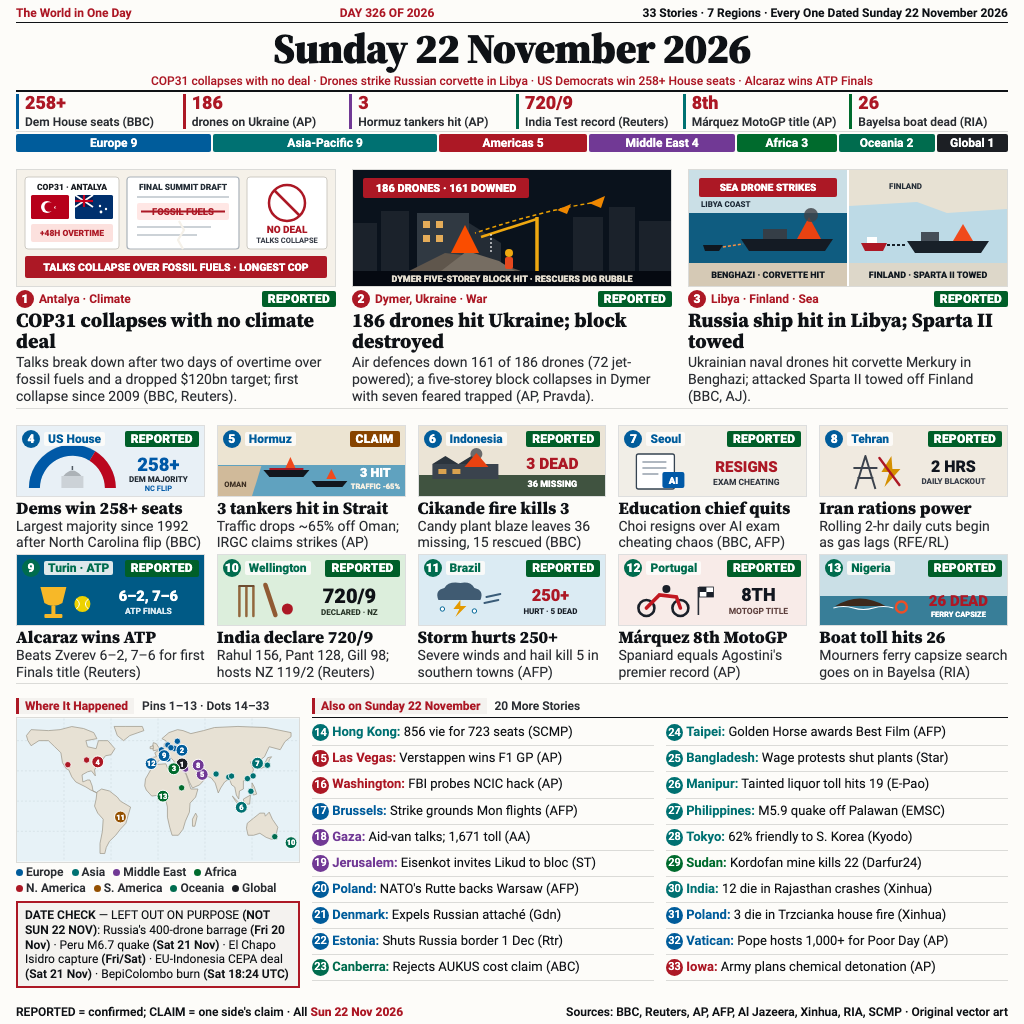
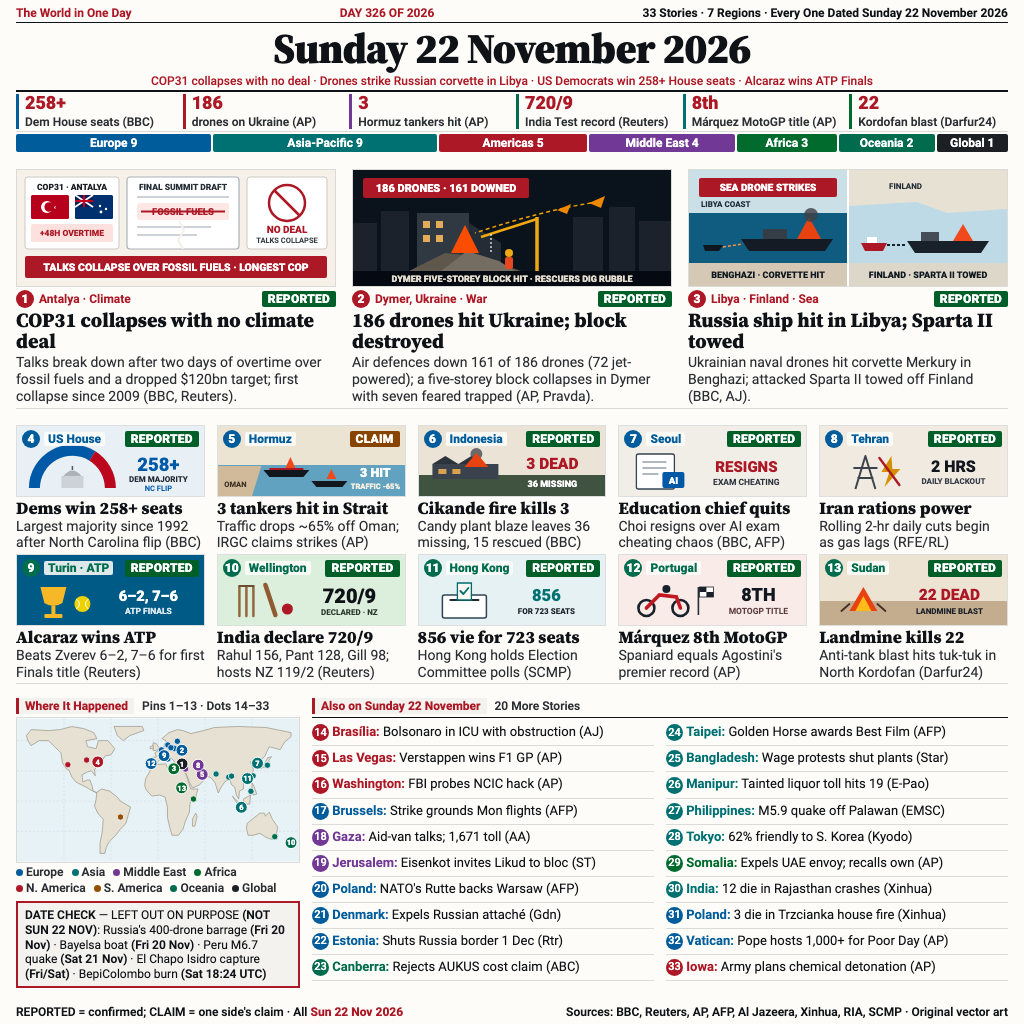
Round 10: SIFT fact-check audit (HK polls, Sudan landmine, Bolsonaro ICU, Somalia-UAE)

diff --git a/index.html b/index.html
@@ -370,7 +370,7 @@
       </div>
       <h1 class="masthead">Sunday 22 November 2026</h1>
       <div class="deck">COP31 collapses with no deal · Drones strike Russian corvette in Libya · US Democrats win 258+ House seats · Alcaraz wins ATP Finals</div>
-      <div class="kpi-strip"><div class="kpi-item" style="border-left:3px solid oklch(0.46 0.13 245)"><div class="kpi-num">258+</div><div class="kpi-lbl">Dem House seats (BBC)</div></div><div class="kpi-item" style="border-left:3px solid oklch(0.48 0.18 24)"><div class="kpi-num">186</div><div class="kpi-lbl">drones on Ukraine (AP)</div></div><div class="kpi-item" style="border-left:3px solid oklch(0.46 0.15 310)"><div class="kpi-num">3</div><div class="kpi-lbl">Hormuz tankers hit (AP)</div></div><div class="kpi-item" style="border-left:3px solid oklch(0.46 0.12 170)"><div class="kpi-num">720/9</div><div class="kpi-lbl">India Test record (Reuters)</div></div><div class="kpi-item" style="border-left:3px solid oklch(0.48 0.12 195)"><div class="kpi-num">8th</div><div class="kpi-lbl">Márquez MotoGP title (AP)</div></div><div class="kpi-item" style="border-left:3px solid oklch(0.46 0.13 150)"><div class="kpi-num">26</div><div class="kpi-lbl">Bayelsa boat dead (RIA)</div></div></div>
+      <div class="kpi-strip"><div class="kpi-item" style="border-left:3px solid oklch(0.46 0.13 245)"><div class="kpi-num">258+</div><div class="kpi-lbl">Dem House seats (BBC)</div></div><div class="kpi-item" style="border-left:3px solid oklch(0.48 0.18 24)"><div class="kpi-num">186</div><div class="kpi-lbl">drones on Ukraine (AP)</div></div><div class="kpi-item" style="border-left:3px solid oklch(0.46 0.15 310)"><div class="kpi-num">3</div><div class="kpi-lbl">Hormuz tankers hit (AP)</div></div><div class="kpi-item" style="border-left:3px solid oklch(0.46 0.12 170)"><div class="kpi-num">720/9</div><div class="kpi-lbl">India Test record (Reuters)</div></div><div class="kpi-item" style="border-left:3px solid oklch(0.48 0.12 195)"><div class="kpi-num">8th</div><div class="kpi-lbl">Márquez MotoGP title (AP)</div></div><div class="kpi-item" style="border-left:3px solid oklch(0.46 0.13 150)"><div class="kpi-num">22</div><div class="kpi-lbl">Kordofan blast (Darfur24)</div></div></div>
       <div class="reg-bar"><div class="reg-seg" style="flex:9 0 auto;background:oklch(0.46 0.13 245)">Europe 9</div><div class="reg-seg" style="flex:9 0 auto;background:oklch(0.48 0.12 195)">Asia-Pacific 9</div><div class="reg-seg" style="flex:5 0 auto;background:oklch(0.48 0.18 24)">Americas 5</div><div class="reg-seg" style="flex:4 0 auto;background:oklch(0.46 0.15 310)">Middle East 4</div><div class="reg-seg" style="flex:3 0 auto;background:oklch(0.46 0.13 150)">Africa 3</div><div class="reg-seg" style="flex:2 0 auto;background:oklch(0.46 0.12 170)">Oceania 2</div><div class="reg-seg" style="flex:1 0 auto;background:oklch(0.24 0.01 260)">Global 1</div></div>
     </div>
 
@@ -692,25 +692,23 @@
             <div class="mini-top">
               <span class="mini-top-left">
                 <span class="num-circle-sm" style="background:oklch(0.46 0.12 170)">11</span>
-                <span class="mini-loc" style="color:oklch(0.46 0.12 170)">Brazil</span>
+                <span class="mini-loc" style="color:oklch(0.46 0.12 170)">Hong Kong</span>
               </span>
               <span class="badge badge-confirmed">REPORTED</span>
             </div>
             <div class="mini-svg-wrap">
     <svg viewBox="0 0 188 72" preserveAspectRatio="xMidYMid slice" width="100%" height="100%" xmlns="http://www.w3.org/2000/svg">
-      <rect width="188" height="72" fill="oklch(0.93 0.02 230)"/>
-      <path d="M20,45 Q16,35 26,33 Q30,26 42,28 Q52,26 56,33 Q66,35 62,45 Z" fill="oklch(0.46 0.05 245)"/>
-      <polygon points="42,45 35,54 41,54 37,62 48,51 42,51" fill="oklch(0.74 0.17 78)"/>
-      <circle cx="24" cy="54" r="2.2" fill="white" stroke="oklch(0.48 0.12 235)" stroke-width="1"/>
-      <circle cx="56" cy="56" r="2.2" fill="white" stroke="oklch(0.48 0.12 235)" stroke-width="1"/>
-      <line x1="68" y1="42" x2="82" y2="39" stroke="oklch(0.46 0.06 245)" stroke-width="1.8" stroke-linecap="round"/>
-      <line x1="66" y1="48" x2="80" y2="45" stroke="oklch(0.46 0.06 245)" stroke-width="1.8" stroke-linecap="round"/>
-      <text x="132" y="46" text-anchor="middle" font-family="Roboto, sans-serif" font-weight="900" font-size="16.5" fill="oklch(0.48 0.18 24)">250+</text>
-      <text x="132" y="59" text-anchor="middle" font-family="Roboto, sans-serif" font-weight="800" font-size="8" fill="oklch(0.24 0.02 260)">HURT · 5 DEAD</text>
+      <rect width="188" height="72" fill="oklch(0.95 0.012 210)"/>
+      <rect x="24" y="40" width="44" height="23" rx="2" fill="white" stroke="oklch(0.38 0.04 240)" stroke-width="1.5"/>
+      <line x1="32" y1="45" x2="60" y2="45" stroke="oklch(0.28 0.02 250)" stroke-width="2.2" stroke-linecap="round"/>
+      <polygon points="39,28 53,28 53,45 39,45" fill="oklch(0.98 0.005 90)" stroke="oklch(0.46 0.12 195)" stroke-width="1.3"/>
+      <path d="M42,36 L45,39 L50,33" fill="none" stroke="oklch(0.46 0.12 195)" stroke-width="1.8" stroke-linecap="round" stroke-linejoin="round"/>
+      <text x="128" y="46" text-anchor="middle" font-family="Roboto, sans-serif" font-weight="900" font-size="16.5" fill="oklch(0.48 0.12 195)">856</text>
+      <text x="128" y="59" text-anchor="middle" font-family="Roboto, sans-serif" font-weight="800" font-size="8" fill="oklch(0.24 0.02 260)">FOR 723 SEATS</text>
     </svg></div>
           </div>
-          <h3>Storm hurts 250+</h3>
-          <p>Severe winds and hail kill 5 in southern towns (AFP)</p>
+          <h3>856 vie for 723 seats</h3>
+          <p>Hong Kong holds Election Committee polls (SCMP)</p>
         </article><article class="mini-card">
           <div class="mini-art">
             <div class="mini-top">
@@ -742,23 +740,23 @@
             <div class="mini-top">
               <span class="mini-top-left">
                 <span class="num-circle-sm" style="background:oklch(0.46 0.12 170)">13</span>
-                <span class="mini-loc" style="color:oklch(0.46 0.12 170)">Nigeria</span>
+                <span class="mini-loc" style="color:oklch(0.46 0.12 170)">Sudan</span>
               </span>
               <span class="badge badge-confirmed">REPORTED</span>
             </div>
             <div class="mini-svg-wrap">
     <svg viewBox="0 0 188 72" preserveAspectRatio="xMidYMid slice" width="100%" height="100%" xmlns="http://www.w3.org/2000/svg">
-      <rect width="188" height="41" fill="oklch(0.89 0.025 220)"/>
-      <rect y="41" width="188" height="31" fill="oklch(0.56 0.08 225)"/>
-      <path d="M16,51 Q40,36 66,51 Z" fill="oklch(0.30 0.04 55)"/>
-      <path d="M14,53 Q24,50 34,53 Q44,56 54,53 Q64,50 74,53" fill="none" stroke="white" stroke-width="1.2"/>
-      <circle cx="82" cy="52" r="5.5" fill="none" stroke="oklch(0.64 0.20 35)" stroke-width="2.4"/>
-      <text x="139" y="51" text-anchor="middle" font-family="Roboto, sans-serif" font-weight="900" font-size="15" fill="oklch(0.48 0.18 24)">26 DEAD</text>
-      <text x="139" y="62" text-anchor="middle" font-family="Roboto, sans-serif" font-weight="800" font-size="7.5" fill="white">FERRY CAPSIZE</text>
+      <rect width="188" height="46" fill="oklch(0.92 0.025 82)"/>
+      <rect y="46" width="188" height="26" fill="oklch(0.76 0.05 75)"/>
+      <polygon points="30,56 44,32 58,56" fill="oklch(0.62 0.21 35)"/>
+      <polygon points="36,56 44,41 52,56" fill="oklch(0.84 0.17 80)"/>
+      <path d="M22,56 L30,49 M66,56 L58,49" stroke="oklch(0.32 0.03 55)" stroke-width="1.8" stroke-linecap="round"/>
+      <text x="130" y="45" text-anchor="middle" font-family="Roboto, sans-serif" font-weight="900" font-size="15.5" fill="oklch(0.48 0.18 24)">22 DEAD</text>
+      <text x="130" y="59" text-anchor="middle" font-family="Roboto, sans-serif" font-weight="800" font-size="8" fill="oklch(0.24 0.02 260)">LANDMINE BLAST</text>
     </svg></div>
           </div>
-          <h3>Boat toll hits 26</h3>
-          <p>Mourners ferry capsize search goes on in Bayelsa (RIA)</p>
+          <h3>Landmine kills 22</h3>
+          <p>Anti-tank blast hits tuk-tuk in North Kordofan (Darfur24)</p>
         </article></div>
 
     <div class="bottom">
@@ -767,9 +765,9 @@
           <span class="sec-title">Where It Happened</span>
           <span class="sec-sub">Pins 1–13 · Dots 14–33</span>
         </div>
-        <div class="map-box"><svg viewBox="0 0 284 144" width="100%" height="144" xmlns="http://www.w3.org/2000/svg"><rect width="284" height="144" fill="oklch(0.955 0.014 225)"/><line x1="0" y1="113.6" x2="284" y2="113.6" stroke="oklch(0.88 0.015 225)" stroke-width="0.6" stroke-dasharray="2 2"/><line x1="0" y1="83.2" x2="284" y2="83.2" stroke="oklch(0.88 0.015 225)" stroke-width="0.6" stroke-dasharray="2 2"/><line x1="0" y1="52.7" x2="284" y2="52.7" stroke="oklch(0.88 0.015 225)" stroke-width="0.6" stroke-dasharray="2 2"/><line x1="0" y1="22.3" x2="284" y2="22.3" stroke="oklch(0.88 0.015 225)" stroke-width="0.6" stroke-dasharray="2 2"/><line x1="47.3" y1="0" x2="47.3" y2="144" stroke="oklch(0.88 0.015 225)" stroke-width="0.6" stroke-dasharray="2 2"/><line x1="94.7" y1="0" x2="94.7" y2="144" stroke="oklch(0.88 0.015 225)" stroke-width="0.6" stroke-dasharray="2 2"/><line x1="142.0" y1="0" x2="142.0" y2="144" stroke="oklch(0.88 0.015 225)" stroke-width="0.6" stroke-dasharray="2 2"/><line x1="189.3" y1="0" x2="189.3" y2="144" stroke="oklch(0.88 0.015 225)" stroke-width="0.6" stroke-dasharray="2 2"/><line x1="236.7" y1="0" x2="236.7" y2="144" stroke="oklch(0.88 0.015 225)" stroke-width="0.6" stroke-dasharray="2 2"/><polygon points="9.5,17.2 14.2,11.2 31.6,12.2 43.4,11.2 55.2,8.1 67.1,10.1 77.3,14.2 80.5,20.3 69.4,22.3 71.0,28.4 79.7,30.4 82.0,22.3 91.5,22.3 98.6,30.4 94.7,36.5 89.1,37.5 86.8,40.6 82.8,44.6 78.1,51.7 78.9,57.8 77.3,55.8 74.9,52.7 71.0,53.7 65.5,56.8 66.3,63.9 71.0,61.9 73.4,61.9 75.7,67.9 76.5,73.0 80.5,75.0 78.9,74.0 74.2,72.0 69.4,69.0 59.2,63.9 55.2,58.8 52.1,51.7 49.7,50.7 45.8,44.6 44.2,34.5 37.9,28.4 31.6,22.3 22.1,22.3 14.2,27.4 11.0,22.3" fill="oklch(0.91 0.018 85)" stroke="oklch(0.68 0.02 85)" stroke-width="0.75" stroke-linejoin="round"/><polygon points="97.8,8.0 108.9,8.0 126.2,8.0 127.8,12.2 113.6,17.2 107.3,22.3 101.0,17.2" fill="oklch(0.91 0.018 85)" stroke="oklch(0.68 0.02 85)" stroke-width="0.75" stroke-linejoin="round"/><polygon points="80.5,74.0 85.2,71.0 93.1,73.0 101.0,79.1 104.1,83.2 114.4,89.2 112.0,97.4 109.7,105.5 104.1,111.5 99.4,117.6 93.1,123.7 89.9,129.8 88.4,136.0 83.6,135.9 83.6,125.7 86.0,113.6 86.8,101.4 81.3,95.3 78.1,88.2 79.7,81.1" fill="oklch(0.91 0.018 85)" stroke="oklch(0.68 0.02 85)" stroke-width="0.75" stroke-linejoin="round"/><polygon points="134.9,45.6 134.9,39.5 140.4,38.5 138.8,34.5 143.6,31.4 148.3,28.4 148.3,25.4 151.5,26.4 149.9,22.3 145.9,20.3 153.0,14.2 161.7,11.2 167.2,12.2 175.1,15.2 187.8,12.2 198.8,9.1 222.5,8.0 250.9,9.1 276.0,14.2 276.0,18.3 269.8,23.3 265.1,31.4 254.0,28.4 249.3,38.5 243.8,42.6 241.4,47.7 243.8,47.7 239.8,43.6 235.1,43.6 238.2,51.7 235.1,58.8 228.0,62.9 228.0,71.0 224.0,73.0 223.3,81.1 220.9,77.1 219.3,69.0 216.2,66.9 213.8,60.8 209.1,63.9 205.1,70.0 202.7,75.0 199.6,64.9 195.6,59.8 190.9,57.8 186.2,56.8 182.2,57.8 180.7,52.7 186.2,59.8 188.5,61.9 183.8,66.9 176.7,70.0 173.6,63.9 169.6,53.7 168.0,51.7 170.4,46.6 163.3,45.6 162.5,41.6 159.4,45.6 157.8,42.6 153.0,37.5 154.6,42.6 151.5,40.6 149.1,38.5 145.2,39.5 142.0,43.6 138.1,46.6" fill="oklch(0.91 0.018 85)" stroke="oklch(0.68 0.02 85)" stroke-width="0.75" stroke-linejoin="round"/><polygon points="137.3,32.5 142.8,31.4 142.8,29.4 140.4,25.4 137.3,24.3 136.5,28.4" fill="oklch(0.91 0.018 85)" stroke="oklch(0.68 0.02 85)" stroke-width="0.75" stroke-linejoin="round"/><polygon points="134.1,30.4 137.3,30.4 137.3,27.4 134.1,28.4" fill="oklch(0.91 0.018 85)" stroke="oklch(0.68 0.02 85)" stroke-width="0.75" stroke-linejoin="round"/><polygon points="137.3,46.6 149.9,45.6 151.5,49.7 161.7,50.7 167.2,51.7 170.4,56.8 175.1,71.0 182.2,71.0 179.9,79.1 174.3,85.2 173.6,94.3 169.6,103.4 167.2,111.5 162.5,117.6 156.2,117.6 153.8,109.5 151.5,99.4 151.5,89.2 149.1,79.1 143.6,77.1 135.7,78.1 130.2,72.0 128.6,67.9 129.4,60.8 134.1,52.7" fill="oklch(0.91 0.018 85)" stroke="oklch(0.68 0.02 85)" stroke-width="0.75" stroke-linejoin="round"/><polygon points="176.7,108.5 179.1,108.5 181.4,98.4 179.9,95.3 176.7,101.4" fill="oklch(0.91 0.018 85)" stroke="oklch(0.68 0.02 85)" stroke-width="0.75" stroke-linejoin="round"/><polygon points="244.6,50.7 249.3,48.7 253.2,46.6 254.0,41.6 256.4,38.5 252.4,39.5 249.3,45.6 244.6,48.7" fill="oklch(0.91 0.018 85)" stroke="oklch(0.68 0.02 85)" stroke-width="0.75" stroke-linejoin="round"/><polygon points="236.7,64.9 239.0,69.0 241.4,76.1 238.2,77.1 236.7,70.0" fill="oklch(0.91 0.018 85)" stroke="oklch(0.68 0.02 85)" stroke-width="0.75" stroke-linejoin="round"/><polygon points="228.0,81.1 235.1,77.1 234.3,86.2 228.8,86.2" fill="oklch(0.91 0.018 85)" stroke="oklch(0.68 0.02 85)" stroke-width="0.75" stroke-linejoin="round"/><polygon points="216.9,78.1 224.0,85.2 231.9,91.3 225.6,90.3 219.3,82.1" fill="oklch(0.91 0.018 85)" stroke="oklch(0.68 0.02 85)" stroke-width="0.75" stroke-linejoin="round"/><polygon points="231.9,105.5 238.2,100.4 244.6,95.3 249.3,95.3 250.1,98.4 254.0,94.3 257.2,101.4 262.7,109.5 260.3,119.7 256.4,121.7 250.9,119.7 244.6,115.6 238.2,117.6 232.7,117.6 231.1,110.5" fill="oklch(0.91 0.018 85)" stroke="oklch(0.68 0.02 85)" stroke-width="0.75" stroke-linejoin="round"/><polygon points="276.0,118.6 276.0,121.7 276.0,125.7 273.7,129.8 276.0,125.7 276.0,122.7" fill="oklch(0.91 0.018 85)" stroke="oklch(0.68 0.02 85)" stroke-width="0.75" stroke-linejoin="round"/><circle cx="232.1" cy="60.5" r="3.2" fill="oklch(0.48 0.12 195)" stroke="white" stroke-width="0.8"/><circle cx="51.2" cy="46.5" r="3.2" fill="oklch(0.48 0.18 24)" stroke="white" stroke-width="0.8"/><circle cx="81.3" cy="43.7" r="3.2" fill="oklch(0.48 0.18 24)" stroke="white" stroke-width="0.8"/><circle cx="145.5" cy="31.6" r="3.2" fill="oklch(0.46 0.13 245)" stroke="white" stroke-width="0.8"/><circle cx="169.2" cy="51.2" r="3.2" fill="oklch(0.46 0.15 310)" stroke="white" stroke-width="0.8"/><circle cx="169.8" cy="50.9" r="3.2" fill="oklch(0.46 0.15 310)" stroke="white" stroke-width="0.8"/><circle cx="158.6" cy="30.2" r="3.2" fill="oklch(0.46 0.13 245)" stroke="white" stroke-width="0.8"/><circle cx="151.9" cy="26.7" r="3.2" fill="oklch(0.46 0.13 245)" stroke="white" stroke-width="0.8"/><circle cx="161.5" cy="22.9" r="3.2" fill="oklch(0.46 0.13 245)" stroke="white" stroke-width="0.8"/><circle cx="259.6" cy="119.0" r="3.2" fill="oklch(0.46 0.12 170)" stroke="white" stroke-width="0.8"/><circle cx="237.8" cy="57.8" r="3.2" fill="oklch(0.48 0.12 195)" stroke="white" stroke-width="0.8"/><circle cx="213.3" cy="59.0" r="3.2" fill="oklch(0.48 0.12 195)" stroke="white" stroke-width="0.8"/><circle cx="216.1" cy="58.0" r="3.2" fill="oklch(0.48 0.12 195)" stroke="white" stroke-width="0.8"/><circle cx="235.6" cy="73.3" r="3.2" fill="oklch(0.48 0.12 195)" stroke="white" stroke-width="0.8"/><circle cx="252.2" cy="47.0" r="3.2" fill="oklch(0.48 0.12 195)" stroke="white" stroke-width="0.8"/><circle cx="165.8" cy="69.8" r="3.2" fill="oklch(0.46 0.13 150)" stroke="white" stroke-width="0.8"/><circle cx="200.5" cy="55.9" r="3.2" fill="oklch(0.48 0.12 195)" stroke="white" stroke-width="0.8"/><circle cx="155.0" cy="29.4" r="3.2" fill="oklch(0.46 0.13 245)" stroke="white" stroke-width="0.8"/><circle cx="151.8" cy="40.7" r="3.2" fill="oklch(0.46 0.13 245)" stroke="white" stroke-width="0.8"/><circle cx="70.1" cy="41.8" r="3.2" fill="oklch(0.48 0.18 24)" stroke="white" stroke-width="0.8"/><g transform="translate(166.2,45.7)"><circle r="6.0" fill="oklch(0.24 0.01 260)" stroke="white" stroke-width="1"/><text y="2.7" text-anchor="middle" font-family="Roboto, sans-serif" font-weight="900" font-size="7.5" fill="white">1</text></g><g transform="translate(166.1,32.0)"><circle r="6.0" fill="oklch(0.46 0.13 245)" stroke="white" stroke-width="1"/><text y="2.7" text-anchor="middle" font-family="Roboto, sans-serif" font-weight="900" font-size="7.5" fill="white">2</text></g><g transform="translate(157.9,50.6)"><circle r="6.0" fill="oklch(0.46 0.13 150)" stroke="white" stroke-width="1"/><text y="2.7" text-anchor="middle" font-family="Roboto, sans-serif" font-weight="900" font-size="7.5" fill="white">3</text></g><g transform="translate(81.3,43.7)"><circle r="6.0" fill="oklch(0.48 0.18 24)" stroke="white" stroke-width="1"/><text y="2.7" text-anchor="middle" font-family="Roboto, sans-serif" font-weight="900" font-size="7.5" fill="white">4</text></g><g transform="translate(186.5,56.3)"><circle r="6.0" fill="oklch(0.46 0.15 310)" stroke="white" stroke-width="1"/><text y="2.7" text-anchor="middle" font-family="Roboto, sans-serif" font-weight="900" font-size="7.5" fill="white">5</text></g><g transform="translate(225.9,89.4)"><circle r="6.0" fill="oklch(0.48 0.12 195)" stroke="white" stroke-width="1"/><text y="2.7" text-anchor="middle" font-family="Roboto, sans-serif" font-weight="900" font-size="7.5" fill="white">6</text></g><g transform="translate(242.2,45.0)"><circle r="6.0" fill="oklch(0.48 0.12 195)" stroke="white" stroke-width="1"/><text y="2.7" text-anchor="middle" font-family="Roboto, sans-serif" font-weight="900" font-size="7.5" fill="white">7</text></g><g transform="translate(182.5,47.0)"><circle r="6.0" fill="oklch(0.46 0.15 310)" stroke="white" stroke-width="1"/><text y="2.7" text-anchor="middle" font-family="Roboto, sans-serif" font-weight="900" font-size="7.5" fill="white">8</text></g><g transform="translate(148.1,37.4)"><circle r="6.0" fill="oklch(0.46 0.13 245)" stroke="white" stroke-width="1"/><text y="2.7" text-anchor="middle" font-family="Roboto, sans-serif" font-weight="900" font-size="7.5" fill="white">9</text></g><g transform="translate(276.0,125.0)"><circle r="6.0" fill="oklch(0.46 0.12 170)" stroke="white" stroke-width="1"/><text y="2.7" text-anchor="middle" font-family="Roboto, sans-serif" font-weight="900" font-size="7.5" fill="white">10</text></g><g transform="translate(104.2,99.2)"><circle r="6.0" fill="oklch(0.50 0.14 70)" stroke="white" stroke-width="1"/><text y="2.7" text-anchor="middle" font-family="Roboto, sans-serif" font-weight="900" font-size="7.5" fill="white">11</text></g><g transform="translate(135.1,45.4)"><circle r="6.0" fill="oklch(0.46 0.13 245)" stroke="white" stroke-width="1"/><text y="2.7" text-anchor="middle" font-family="Roboto, sans-serif" font-weight="900" font-size="7.5" fill="white">12</text></g><g transform="translate(147.0,78.2)"><circle r="6.0" fill="oklch(0.46 0.13 150)" stroke="white" stroke-width="1"/><text y="2.7" text-anchor="middle" font-family="Roboto, sans-serif" font-weight="900" font-size="7.5" fill="white">13</text></g></svg></div>
+        <div class="map-box"><svg viewBox="0 0 284 144" width="100%" height="144" xmlns="http://www.w3.org/2000/svg"><rect width="284" height="144" fill="oklch(0.955 0.014 225)"/><line x1="0" y1="113.6" x2="284" y2="113.6" stroke="oklch(0.88 0.015 225)" stroke-width="0.6" stroke-dasharray="2 2"/><line x1="0" y1="83.2" x2="284" y2="83.2" stroke="oklch(0.88 0.015 225)" stroke-width="0.6" stroke-dasharray="2 2"/><line x1="0" y1="52.7" x2="284" y2="52.7" stroke="oklch(0.88 0.015 225)" stroke-width="0.6" stroke-dasharray="2 2"/><line x1="0" y1="22.3" x2="284" y2="22.3" stroke="oklch(0.88 0.015 225)" stroke-width="0.6" stroke-dasharray="2 2"/><line x1="47.3" y1="0" x2="47.3" y2="144" stroke="oklch(0.88 0.015 225)" stroke-width="0.6" stroke-dasharray="2 2"/><line x1="94.7" y1="0" x2="94.7" y2="144" stroke="oklch(0.88 0.015 225)" stroke-width="0.6" stroke-dasharray="2 2"/><line x1="142.0" y1="0" x2="142.0" y2="144" stroke="oklch(0.88 0.015 225)" stroke-width="0.6" stroke-dasharray="2 2"/><line x1="189.3" y1="0" x2="189.3" y2="144" stroke="oklch(0.88 0.015 225)" stroke-width="0.6" stroke-dasharray="2 2"/><line x1="236.7" y1="0" x2="236.7" y2="144" stroke="oklch(0.88 0.015 225)" stroke-width="0.6" stroke-dasharray="2 2"/><polygon points="9.5,17.2 14.2,11.2 31.6,12.2 43.4,11.2 55.2,8.1 67.1,10.1 77.3,14.2 80.5,20.3 69.4,22.3 71.0,28.4 79.7,30.4 82.0,22.3 91.5,22.3 98.6,30.4 94.7,36.5 89.1,37.5 86.8,40.6 82.8,44.6 78.1,51.7 78.9,57.8 77.3,55.8 74.9,52.7 71.0,53.7 65.5,56.8 66.3,63.9 71.0,61.9 73.4,61.9 75.7,67.9 76.5,73.0 80.5,75.0 78.9,74.0 74.2,72.0 69.4,69.0 59.2,63.9 55.2,58.8 52.1,51.7 49.7,50.7 45.8,44.6 44.2,34.5 37.9,28.4 31.6,22.3 22.1,22.3 14.2,27.4 11.0,22.3" fill="oklch(0.91 0.018 85)" stroke="oklch(0.68 0.02 85)" stroke-width="0.75" stroke-linejoin="round"/><polygon points="97.8,8.0 108.9,8.0 126.2,8.0 127.8,12.2 113.6,17.2 107.3,22.3 101.0,17.2" fill="oklch(0.91 0.018 85)" stroke="oklch(0.68 0.02 85)" stroke-width="0.75" stroke-linejoin="round"/><polygon points="80.5,74.0 85.2,71.0 93.1,73.0 101.0,79.1 104.1,83.2 114.4,89.2 112.0,97.4 109.7,105.5 104.1,111.5 99.4,117.6 93.1,123.7 89.9,129.8 88.4,136.0 83.6,135.9 83.6,125.7 86.0,113.6 86.8,101.4 81.3,95.3 78.1,88.2 79.7,81.1" fill="oklch(0.91 0.018 85)" stroke="oklch(0.68 0.02 85)" stroke-width="0.75" stroke-linejoin="round"/><polygon points="134.9,45.6 134.9,39.5 140.4,38.5 138.8,34.5 143.6,31.4 148.3,28.4 148.3,25.4 151.5,26.4 149.9,22.3 145.9,20.3 153.0,14.2 161.7,11.2 167.2,12.2 175.1,15.2 187.8,12.2 198.8,9.1 222.5,8.0 250.9,9.1 276.0,14.2 276.0,18.3 269.8,23.3 265.1,31.4 254.0,28.4 249.3,38.5 243.8,42.6 241.4,47.7 243.8,47.7 239.8,43.6 235.1,43.6 238.2,51.7 235.1,58.8 228.0,62.9 228.0,71.0 224.0,73.0 223.3,81.1 220.9,77.1 219.3,69.0 216.2,66.9 213.8,60.8 209.1,63.9 205.1,70.0 202.7,75.0 199.6,64.9 195.6,59.8 190.9,57.8 186.2,56.8 182.2,57.8 180.7,52.7 186.2,59.8 188.5,61.9 183.8,66.9 176.7,70.0 173.6,63.9 169.6,53.7 168.0,51.7 170.4,46.6 163.3,45.6 162.5,41.6 159.4,45.6 157.8,42.6 153.0,37.5 154.6,42.6 151.5,40.6 149.1,38.5 145.2,39.5 142.0,43.6 138.1,46.6" fill="oklch(0.91 0.018 85)" stroke="oklch(0.68 0.02 85)" stroke-width="0.75" stroke-linejoin="round"/><polygon points="137.3,32.5 142.8,31.4 142.8,29.4 140.4,25.4 137.3,24.3 136.5,28.4" fill="oklch(0.91 0.018 85)" stroke="oklch(0.68 0.02 85)" stroke-width="0.75" stroke-linejoin="round"/><polygon points="134.1,30.4 137.3,30.4 137.3,27.4 134.1,28.4" fill="oklch(0.91 0.018 85)" stroke="oklch(0.68 0.02 85)" stroke-width="0.75" stroke-linejoin="round"/><polygon points="137.3,46.6 149.9,45.6 151.5,49.7 161.7,50.7 167.2,51.7 170.4,56.8 175.1,71.0 182.2,71.0 179.9,79.1 174.3,85.2 173.6,94.3 169.6,103.4 167.2,111.5 162.5,117.6 156.2,117.6 153.8,109.5 151.5,99.4 151.5,89.2 149.1,79.1 143.6,77.1 135.7,78.1 130.2,72.0 128.6,67.9 129.4,60.8 134.1,52.7" fill="oklch(0.91 0.018 85)" stroke="oklch(0.68 0.02 85)" stroke-width="0.75" stroke-linejoin="round"/><polygon points="176.7,108.5 179.1,108.5 181.4,98.4 179.9,95.3 176.7,101.4" fill="oklch(0.91 0.018 85)" stroke="oklch(0.68 0.02 85)" stroke-width="0.75" stroke-linejoin="round"/><polygon points="244.6,50.7 249.3,48.7 253.2,46.6 254.0,41.6 256.4,38.5 252.4,39.5 249.3,45.6 244.6,48.7" fill="oklch(0.91 0.018 85)" stroke="oklch(0.68 0.02 85)" stroke-width="0.75" stroke-linejoin="round"/><polygon points="236.7,64.9 239.0,69.0 241.4,76.1 238.2,77.1 236.7,70.0" fill="oklch(0.91 0.018 85)" stroke="oklch(0.68 0.02 85)" stroke-width="0.75" stroke-linejoin="round"/><polygon points="228.0,81.1 235.1,77.1 234.3,86.2 228.8,86.2" fill="oklch(0.91 0.018 85)" stroke="oklch(0.68 0.02 85)" stroke-width="0.75" stroke-linejoin="round"/><polygon points="216.9,78.1 224.0,85.2 231.9,91.3 225.6,90.3 219.3,82.1" fill="oklch(0.91 0.018 85)" stroke="oklch(0.68 0.02 85)" stroke-width="0.75" stroke-linejoin="round"/><polygon points="231.9,105.5 238.2,100.4 244.6,95.3 249.3,95.3 250.1,98.4 254.0,94.3 257.2,101.4 262.7,109.5 260.3,119.7 256.4,121.7 250.9,119.7 244.6,115.6 238.2,117.6 232.7,117.6 231.1,110.5" fill="oklch(0.91 0.018 85)" stroke="oklch(0.68 0.02 85)" stroke-width="0.75" stroke-linejoin="round"/><polygon points="276.0,118.6 276.0,121.7 276.0,125.7 273.7,129.8 276.0,125.7 276.0,122.7" fill="oklch(0.91 0.018 85)" stroke="oklch(0.68 0.02 85)" stroke-width="0.75" stroke-linejoin="round"/><circle cx="104.2" cy="99.2" r="3.2" fill="oklch(0.50 0.14 70)" stroke="white" stroke-width="0.8"/><circle cx="51.2" cy="46.5" r="3.2" fill="oklch(0.48 0.18 24)" stroke="white" stroke-width="0.8"/><circle cx="81.3" cy="43.7" r="3.2" fill="oklch(0.48 0.18 24)" stroke="white" stroke-width="0.8"/><circle cx="145.5" cy="31.6" r="3.2" fill="oklch(0.46 0.13 245)" stroke="white" stroke-width="0.8"/><circle cx="169.2" cy="51.2" r="3.2" fill="oklch(0.46 0.15 310)" stroke="white" stroke-width="0.8"/><circle cx="169.8" cy="50.9" r="3.2" fill="oklch(0.46 0.15 310)" stroke="white" stroke-width="0.8"/><circle cx="158.6" cy="30.2" r="3.2" fill="oklch(0.46 0.13 245)" stroke="white" stroke-width="0.8"/><circle cx="151.9" cy="26.7" r="3.2" fill="oklch(0.46 0.13 245)" stroke="white" stroke-width="0.8"/><circle cx="161.5" cy="22.9" r="3.2" fill="oklch(0.46 0.13 245)" stroke="white" stroke-width="0.8"/><circle cx="259.6" cy="119.0" r="3.2" fill="oklch(0.46 0.12 170)" stroke="white" stroke-width="0.8"/><circle cx="237.8" cy="57.8" r="3.2" fill="oklch(0.48 0.12 195)" stroke="white" stroke-width="0.8"/><circle cx="213.3" cy="59.0" r="3.2" fill="oklch(0.48 0.12 195)" stroke="white" stroke-width="0.8"/><circle cx="216.1" cy="58.0" r="3.2" fill="oklch(0.48 0.12 195)" stroke="white" stroke-width="0.8"/><circle cx="235.6" cy="73.3" r="3.2" fill="oklch(0.48 0.12 195)" stroke="white" stroke-width="0.8"/><circle cx="252.2" cy="47.0" r="3.2" fill="oklch(0.48 0.12 195)" stroke="white" stroke-width="0.8"/><circle cx="177.7" cy="81.1" r="3.2" fill="oklch(0.46 0.13 150)" stroke="white" stroke-width="0.8"/><circle cx="200.5" cy="55.9" r="3.2" fill="oklch(0.48 0.12 195)" stroke="white" stroke-width="0.8"/><circle cx="155.0" cy="29.4" r="3.2" fill="oklch(0.46 0.13 245)" stroke="white" stroke-width="0.8"/><circle cx="151.8" cy="40.7" r="3.2" fill="oklch(0.46 0.13 245)" stroke="white" stroke-width="0.8"/><circle cx="70.1" cy="41.8" r="3.2" fill="oklch(0.48 0.18 24)" stroke="white" stroke-width="0.8"/><g transform="translate(166.2,45.7)"><circle r="6.0" fill="oklch(0.24 0.01 260)" stroke="white" stroke-width="1"/><text y="2.7" text-anchor="middle" font-family="Roboto, sans-serif" font-weight="900" font-size="7.5" fill="white">1</text></g><g transform="translate(166.1,32.0)"><circle r="6.0" fill="oklch(0.46 0.13 245)" stroke="white" stroke-width="1"/><text y="2.7" text-anchor="middle" font-family="Roboto, sans-serif" font-weight="900" font-size="7.5" fill="white">2</text></g><g transform="translate(157.9,50.6)"><circle r="6.0" fill="oklch(0.46 0.13 150)" stroke="white" stroke-width="1"/><text y="2.7" text-anchor="middle" font-family="Roboto, sans-serif" font-weight="900" font-size="7.5" fill="white">3</text></g><g transform="translate(81.3,43.7)"><circle r="6.0" fill="oklch(0.48 0.18 24)" stroke="white" stroke-width="1"/><text y="2.7" text-anchor="middle" font-family="Roboto, sans-serif" font-weight="900" font-size="7.5" fill="white">4</text></g><g transform="translate(186.5,56.3)"><circle r="6.0" fill="oklch(0.46 0.15 310)" stroke="white" stroke-width="1"/><text y="2.7" text-anchor="middle" font-family="Roboto, sans-serif" font-weight="900" font-size="7.5" fill="white">5</text></g><g transform="translate(225.9,89.4)"><circle r="6.0" fill="oklch(0.48 0.12 195)" stroke="white" stroke-width="1"/><text y="2.7" text-anchor="middle" font-family="Roboto, sans-serif" font-weight="900" font-size="7.5" fill="white">6</text></g><g transform="translate(242.2,45.0)"><circle r="6.0" fill="oklch(0.48 0.12 195)" stroke="white" stroke-width="1"/><text y="2.7" text-anchor="middle" font-family="Roboto, sans-serif" font-weight="900" font-size="7.5" fill="white">7</text></g><g transform="translate(182.5,47.0)"><circle r="6.0" fill="oklch(0.46 0.15 310)" stroke="white" stroke-width="1"/><text y="2.7" text-anchor="middle" font-family="Roboto, sans-serif" font-weight="900" font-size="7.5" fill="white">8</text></g><g transform="translate(148.1,37.4)"><circle r="6.0" fill="oklch(0.46 0.13 245)" stroke="white" stroke-width="1"/><text y="2.7" text-anchor="middle" font-family="Roboto, sans-serif" font-weight="900" font-size="7.5" fill="white">9</text></g><g transform="translate(276.0,125.0)"><circle r="6.0" fill="oklch(0.46 0.12 170)" stroke="white" stroke-width="1"/><text y="2.7" text-anchor="middle" font-family="Roboto, sans-serif" font-weight="900" font-size="7.5" fill="white">10</text></g><g transform="translate(232.1,60.5)"><circle r="6.0" fill="oklch(0.48 0.12 195)" stroke="white" stroke-width="1"/><text y="2.7" text-anchor="middle" font-family="Roboto, sans-serif" font-weight="900" font-size="7.5" fill="white">11</text></g><g transform="translate(135.1,45.4)"><circle r="6.0" fill="oklch(0.46 0.13 245)" stroke="white" stroke-width="1"/><text y="2.7" text-anchor="middle" font-family="Roboto, sans-serif" font-weight="900" font-size="7.5" fill="white">12</text></g><g transform="translate(165.8,69.8)"><circle r="6.0" fill="oklch(0.46 0.13 150)" stroke="white" stroke-width="1"/><text y="2.7" text-anchor="middle" font-family="Roboto, sans-serif" font-weight="900" font-size="7.5" fill="white">13</text></g></svg></div>
         <div class="legend"><span class="leg-item"><i style="background:oklch(0.46 0.13 245)"></i>Europe</span><span class="leg-item"><i style="background:oklch(0.48 0.12 195)"></i>Asia</span><span class="leg-item"><i style="background:oklch(0.46 0.15 310)"></i>Middle East</span><span class="leg-item"><i style="background:oklch(0.46 0.13 150)"></i>Africa</span><span class="leg-item"><i style="background:oklch(0.48 0.18 24)"></i>N. America</span><span class="leg-item"><i style="background:oklch(0.50 0.14 70)"></i>S. America</span><span class="leg-item"><i style="background:oklch(0.46 0.12 170)"></i>Oceania</span><span class="leg-item"><i style="background:oklch(0.24 0.01 260)"></i>Global</span></div>
-        <div class="date-check"><span class="dc-key">DATE CHECK</span> — LEFT OUT ON PURPOSE <span class="dc-key">(NOT SUN 22 NOV)</span>: Russia&#x27;s 400-drone barrage <span class="dc-key">(Fri 20 Nov)</span> · Peru M6.7 quake <span class="dc-key">(Sat 21 Nov)</span> · El Chapo Isidro capture <span class="dc-key">(Fri/Sat)</span> · EU-Indonesia CEPA deal <span class="dc-key">(Sat 21 Nov)</span> · BepiColombo burn <span class="dc-key">(Sat 18:24 UTC)</span></div>
+        <div class="date-check"><span class="dc-key">DATE CHECK</span> — LEFT OUT ON PURPOSE <span class="dc-key">(NOT SUN 22 NOV)</span>: Russia&#x27;s 400-drone barrage <span class="dc-key">(Fri 20 Nov)</span> · Bayelsa boat <span class="dc-key">(Fri 20 Nov)</span> · Peru M6.7 quake <span class="dc-key">(Sat 21 Nov)</span> · El Chapo Isidro capture <span class="dc-key">(Fri/Sat)</span> · BepiColombo burn <span class="dc-key">(Sat 18:24 UTC)</span></div>
       </div>
       <div>
         <div class="sec-hd">
@@ -777,8 +775,8 @@
           <span class="sec-sub">20 More Stories</span>
         </div>
         <div class="briefs-grid">
-          <div><div class="brief"><span class="num-circle-xs" style="background:oklch(0.48 0.12 195)">14</span> <span class="b-loc" style="color:oklch(0.48 0.12 195)">Hong Kong:</span> 856 vie for 723 seats (SCMP)</div><div class="brief"><span class="num-circle-xs" style="background:oklch(0.48 0.18 24)">15</span> <span class="b-loc" style="color:oklch(0.48 0.18 24)">Las Vegas:</span> Verstappen wins F1 GP (AP)</div><div class="brief"><span class="num-circle-xs" style="background:oklch(0.48 0.18 24)">16</span> <span class="b-loc" style="color:oklch(0.48 0.18 24)">Washington:</span> FBI probes NCIC hack (AP)</div><div class="brief"><span class="num-circle-xs" style="background:oklch(0.46 0.13 245)">17</span> <span class="b-loc" style="color:oklch(0.46 0.13 245)">Brussels:</span> Strike grounds Mon flights (AFP)</div><div class="brief"><span class="num-circle-xs" style="background:oklch(0.46 0.15 310)">18</span> <span class="b-loc" style="color:oklch(0.46 0.15 310)">Gaza:</span> Aid-van talks; 1,671 toll (AA)</div><div class="brief"><span class="num-circle-xs" style="background:oklch(0.46 0.15 310)">19</span> <span class="b-loc" style="color:oklch(0.46 0.15 310)">Jerusalem:</span> Eisenkot invites Likud to bloc (ST)</div><div class="brief"><span class="num-circle-xs" style="background:oklch(0.46 0.13 245)">20</span> <span class="b-loc" style="color:oklch(0.46 0.13 245)">Poland:</span> NATO&#x27;s Rutte backs Warsaw (AFP)</div><div class="brief"><span class="num-circle-xs" style="background:oklch(0.46 0.13 245)">21</span> <span class="b-loc" style="color:oklch(0.46 0.13 245)">Denmark:</span> Expels Russian attaché (Gdn)</div><div class="brief"><span class="num-circle-xs" style="background:oklch(0.46 0.13 245)">22</span> <span class="b-loc" style="color:oklch(0.46 0.13 245)">Estonia:</span> Shuts Russia border 1 Dec (Rtr)</div><div class="brief"><span class="num-circle-xs" style="background:oklch(0.46 0.12 170)">23</span> <span class="b-loc" style="color:oklch(0.46 0.12 170)">Canberra:</span> Rejects AUKUS cost claim (ABC)</div></div>
-          <div><div class="brief"><span class="num-circle-xs" style="background:oklch(0.48 0.12 195)">24</span> <span class="b-loc" style="color:oklch(0.48 0.12 195)">Taipei:</span> Golden Horse awards Best Film (AFP)</div><div class="brief"><span class="num-circle-xs" style="background:oklch(0.48 0.12 195)">25</span> <span class="b-loc" style="color:oklch(0.48 0.12 195)">Bangladesh:</span> Wage protests shut plants (Star)</div><div class="brief"><span class="num-circle-xs" style="background:oklch(0.48 0.12 195)">26</span> <span class="b-loc" style="color:oklch(0.48 0.12 195)">Manipur:</span> Tainted liquor toll hits 19 (E-Pao)</div><div class="brief"><span class="num-circle-xs" style="background:oklch(0.48 0.12 195)">27</span> <span class="b-loc" style="color:oklch(0.48 0.12 195)">Philippines:</span> M5.9 quake off Palawan (EMSC)</div><div class="brief"><span class="num-circle-xs" style="background:oklch(0.48 0.12 195)">28</span> <span class="b-loc" style="color:oklch(0.48 0.12 195)">Tokyo:</span> 62% friendly to S. Korea (Kyodo)</div><div class="brief"><span class="num-circle-xs" style="background:oklch(0.46 0.13 150)">29</span> <span class="b-loc" style="color:oklch(0.46 0.13 150)">Sudan:</span> Kordofan mine kills 22 (Darfur24)</div><div class="brief"><span class="num-circle-xs" style="background:oklch(0.48 0.12 195)">30</span> <span class="b-loc" style="color:oklch(0.48 0.12 195)">India:</span> 12 die in Rajasthan crashes (Xinhua)</div><div class="brief"><span class="num-circle-xs" style="background:oklch(0.46 0.13 245)">31</span> <span class="b-loc" style="color:oklch(0.46 0.13 245)">Poland:</span> 3 die in Trzcianka house fire (Xinhua)</div><div class="brief"><span class="num-circle-xs" style="background:oklch(0.46 0.13 245)">32</span> <span class="b-loc" style="color:oklch(0.46 0.13 245)">Vatican:</span> Pope hosts 1,000+ for Poor Day (AP)</div><div class="brief"><span class="num-circle-xs" style="background:oklch(0.48 0.18 24)">33</span> <span class="b-loc" style="color:oklch(0.48 0.18 24)">Iowa:</span> Army plans chemical detonation (AP)</div></div>
+          <div><div class="brief"><span class="num-circle-xs" style="background:oklch(0.48 0.18 24)">14</span> <span class="b-loc" style="color:oklch(0.48 0.18 24)">Brasília:</span> Bolsonaro in ICU with obstruction (AJ)</div><div class="brief"><span class="num-circle-xs" style="background:oklch(0.48 0.18 24)">15</span> <span class="b-loc" style="color:oklch(0.48 0.18 24)">Las Vegas:</span> Verstappen wins F1 GP (AP)</div><div class="brief"><span class="num-circle-xs" style="background:oklch(0.48 0.18 24)">16</span> <span class="b-loc" style="color:oklch(0.48 0.18 24)">Washington:</span> FBI probes NCIC hack (AP)</div><div class="brief"><span class="num-circle-xs" style="background:oklch(0.46 0.13 245)">17</span> <span class="b-loc" style="color:oklch(0.46 0.13 245)">Brussels:</span> Strike grounds Mon flights (AFP)</div><div class="brief"><span class="num-circle-xs" style="background:oklch(0.46 0.15 310)">18</span> <span class="b-loc" style="color:oklch(0.46 0.15 310)">Gaza:</span> Aid-van talks; 1,671 toll (AA)</div><div class="brief"><span class="num-circle-xs" style="background:oklch(0.46 0.15 310)">19</span> <span class="b-loc" style="color:oklch(0.46 0.15 310)">Jerusalem:</span> Eisenkot invites Likud to bloc (ST)</div><div class="brief"><span class="num-circle-xs" style="background:oklch(0.46 0.13 245)">20</span> <span class="b-loc" style="color:oklch(0.46 0.13 245)">Poland:</span> NATO&#x27;s Rutte backs Warsaw (AFP)</div><div class="brief"><span class="num-circle-xs" style="background:oklch(0.46 0.13 245)">21</span> <span class="b-loc" style="color:oklch(0.46 0.13 245)">Denmark:</span> Expels Russian attaché (Gdn)</div><div class="brief"><span class="num-circle-xs" style="background:oklch(0.46 0.13 245)">22</span> <span class="b-loc" style="color:oklch(0.46 0.13 245)">Estonia:</span> Shuts Russia border 1 Dec (Rtr)</div><div class="brief"><span class="num-circle-xs" style="background:oklch(0.46 0.12 170)">23</span> <span class="b-loc" style="color:oklch(0.46 0.12 170)">Canberra:</span> Rejects AUKUS cost claim (ABC)</div></div>
+          <div><div class="brief"><span class="num-circle-xs" style="background:oklch(0.48 0.12 195)">24</span> <span class="b-loc" style="color:oklch(0.48 0.12 195)">Taipei:</span> Golden Horse awards Best Film (AFP)</div><div class="brief"><span class="num-circle-xs" style="background:oklch(0.48 0.12 195)">25</span> <span class="b-loc" style="color:oklch(0.48 0.12 195)">Bangladesh:</span> Wage protests shut plants (Star)</div><div class="brief"><span class="num-circle-xs" style="background:oklch(0.48 0.12 195)">26</span> <span class="b-loc" style="color:oklch(0.48 0.12 195)">Manipur:</span> Tainted liquor toll hits 19 (E-Pao)</div><div class="brief"><span class="num-circle-xs" style="background:oklch(0.48 0.12 195)">27</span> <span class="b-loc" style="color:oklch(0.48 0.12 195)">Philippines:</span> M5.9 quake off Palawan (EMSC)</div><div class="brief"><span class="num-circle-xs" style="background:oklch(0.48 0.12 195)">28</span> <span class="b-loc" style="color:oklch(0.48 0.12 195)">Tokyo:</span> 62% friendly to S. Korea (Kyodo)</div><div class="brief"><span class="num-circle-xs" style="background:oklch(0.46 0.13 150)">29</span> <span class="b-loc" style="color:oklch(0.46 0.13 150)">Somalia:</span> Expels UAE envoy; recalls own (AP)</div><div class="brief"><span class="num-circle-xs" style="background:oklch(0.48 0.12 195)">30</span> <span class="b-loc" style="color:oklch(0.48 0.12 195)">India:</span> 12 die in Rajasthan crashes (Xinhua)</div><div class="brief"><span class="num-circle-xs" style="background:oklch(0.46 0.13 245)">31</span> <span class="b-loc" style="color:oklch(0.46 0.13 245)">Poland:</span> 3 die in Trzcianka house fire (Xinhua)</div><div class="brief"><span class="num-circle-xs" style="background:oklch(0.46 0.13 245)">32</span> <span class="b-loc" style="color:oklch(0.46 0.13 245)">Vatican:</span> Pope hosts 1,000+ for Poor Day (AP)</div><div class="brief"><span class="num-circle-xs" style="background:oklch(0.48 0.18 24)">33</span> <span class="b-loc" style="color:oklch(0.48 0.18 24)">Iowa:</span> Army plans chemical detonation (AP)</div></div>
         </div>
       </div>
     </div>

diff --git a/build_html.py b/build_html.py
@@ -213,17 +213,15 @@ SVGS: dict[str, str] = {
       <text x="132" y="48" text-anchor="middle" font-family="Roboto, sans-serif" font-weight="900" font-size="20" fill="oklch(0.18 0.01 260)">720/9</text>
       <text x="132" y="60" text-anchor="middle" font-family="Roboto, sans-serif" font-weight="800" font-size="8" fill="oklch(0.32 0.03 145)">DECLARED · NZ</text>
     </svg>""",
-    'brazil_storm': """
+    'hk_polls': """
     <svg viewBox="0 0 188 72" preserveAspectRatio="xMidYMid slice" width="100%" height="100%" xmlns="http://www.w3.org/2000/svg">
-      <rect width="188" height="72" fill="oklch(0.93 0.02 230)"/>
-      <path d="M20,45 Q16,35 26,33 Q30,26 42,28 Q52,26 56,33 Q66,35 62,45 Z" fill="oklch(0.46 0.05 245)"/>
-      <polygon points="42,45 35,54 41,54 37,62 48,51 42,51" fill="oklch(0.74 0.17 78)"/>
-      <circle cx="24" cy="54" r="2.2" fill="white" stroke="oklch(0.48 0.12 235)" stroke-width="1"/>
-      <circle cx="56" cy="56" r="2.2" fill="white" stroke="oklch(0.48 0.12 235)" stroke-width="1"/>
-      <line x1="68" y1="42" x2="82" y2="39" stroke="oklch(0.46 0.06 245)" stroke-width="1.8" stroke-linecap="round"/>
-      <line x1="66" y1="48" x2="80" y2="45" stroke="oklch(0.46 0.06 245)" stroke-width="1.8" stroke-linecap="round"/>
-      <text x="132" y="46" text-anchor="middle" font-family="Roboto, sans-serif" font-weight="900" font-size="16.5" fill="oklch(0.48 0.18 24)">250+</text>
-      <text x="132" y="59" text-anchor="middle" font-family="Roboto, sans-serif" font-weight="800" font-size="8" fill="oklch(0.24 0.02 260)">HURT · 5 DEAD</text>
+      <rect width="188" height="72" fill="oklch(0.95 0.012 210)"/>
+      <rect x="24" y="40" width="44" height="23" rx="2" fill="white" stroke="oklch(0.38 0.04 240)" stroke-width="1.5"/>
+      <line x1="32" y1="45" x2="60" y2="45" stroke="oklch(0.28 0.02 250)" stroke-width="2.2" stroke-linecap="round"/>
+      <polygon points="39,28 53,28 53,45 39,45" fill="oklch(0.98 0.005 90)" stroke="oklch(0.46 0.12 195)" stroke-width="1.3"/>
+      <path d="M42,36 L45,39 L50,33" fill="none" stroke="oklch(0.46 0.12 195)" stroke-width="1.8" stroke-linecap="round" stroke-linejoin="round"/>
+      <text x="128" y="46" text-anchor="middle" font-family="Roboto, sans-serif" font-weight="900" font-size="16.5" fill="oklch(0.48 0.12 195)">856</text>
+      <text x="128" y="59" text-anchor="middle" font-family="Roboto, sans-serif" font-weight="800" font-size="8" fill="oklch(0.24 0.02 260)">FOR 723 SEATS</text>
     </svg>""",
     'motogp_8': """
     <svg viewBox="0 0 188 72" preserveAspectRatio="xMidYMid slice" width="100%" height="100%" xmlns="http://www.w3.org/2000/svg">
@@ -239,15 +237,15 @@ SVGS: dict[str, str] = {
       <text x="140" y="46" text-anchor="middle" font-family="Roboto, sans-serif" font-weight="900" font-size="18" fill="oklch(0.20 0.02 260)">8TH</text>
       <text x="140" y="59" text-anchor="middle" font-family="Roboto, sans-serif" font-weight="700" font-size="8.5" fill="oklch(0.40 0.04 26)">MOTOGP TITLE</text>
     </svg>""",
-    'nigeria_boat': """
+    'sudan_mine': """
     <svg viewBox="0 0 188 72" preserveAspectRatio="xMidYMid slice" width="100%" height="100%" xmlns="http://www.w3.org/2000/svg">
-      <rect width="188" height="41" fill="oklch(0.89 0.025 220)"/>
-      <rect y="41" width="188" height="31" fill="oklch(0.56 0.08 225)"/>
-      <path d="M16,51 Q40,36 66,51 Z" fill="oklch(0.30 0.04 55)"/>
-      <path d="M14,53 Q24,50 34,53 Q44,56 54,53 Q64,50 74,53" fill="none" stroke="white" stroke-width="1.2"/>
-      <circle cx="82" cy="52" r="5.5" fill="none" stroke="oklch(0.64 0.20 35)" stroke-width="2.4"/>
-      <text x="139" y="51" text-anchor="middle" font-family="Roboto, sans-serif" font-weight="900" font-size="15" fill="oklch(0.48 0.18 24)">26 DEAD</text>
-      <text x="139" y="62" text-anchor="middle" font-family="Roboto, sans-serif" font-weight="800" font-size="7.5" fill="white">FERRY CAPSIZE</text>
+      <rect width="188" height="46" fill="oklch(0.92 0.025 82)"/>
+      <rect y="46" width="188" height="26" fill="oklch(0.76 0.05 75)"/>
+      <polygon points="30,56 44,32 58,56" fill="oklch(0.62 0.21 35)"/>
+      <polygon points="36,56 44,41 52,56" fill="oklch(0.84 0.17 80)"/>
+      <path d="M22,56 L30,49 M66,56 L58,49" stroke="oklch(0.32 0.03 55)" stroke-width="1.8" stroke-linecap="round"/>
+      <text x="130" y="45" text-anchor="middle" font-family="Roboto, sans-serif" font-weight="900" font-size="15.5" fill="oklch(0.48 0.18 24)">22 DEAD</text>
+      <text x="130" y="59" text-anchor="middle" font-family="Roboto, sans-serif" font-weight="800" font-size="8" fill="oklch(0.24 0.02 260)">LANDMINE BLAST</text>
     </svg>""",
 }
 
